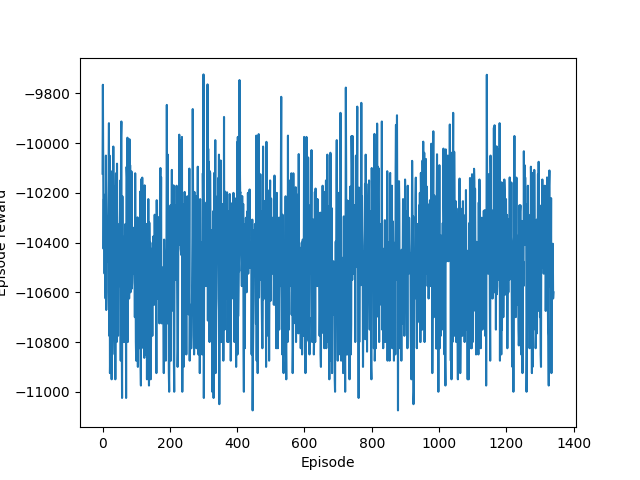
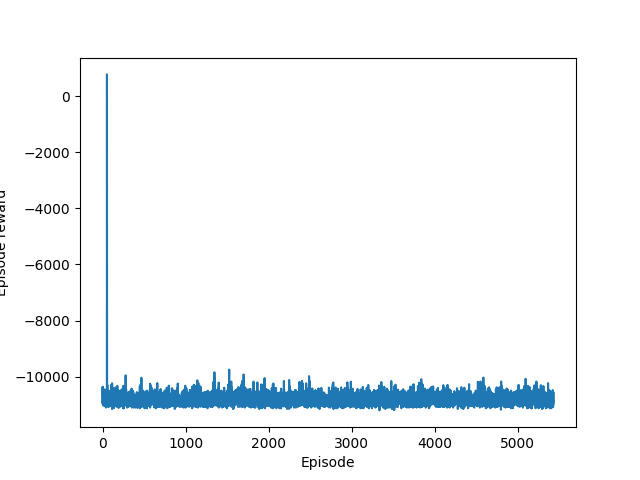
Added Training Code for Trace Model

diff --git a/A2C.py b/A2C.py
@@ -72,7 +72,7 @@ class PolicyEstimator_RNN(nn.Module):
 
         return action_probs 
 
-    def predict(self, states, local_map, sess=None):
+    def predict(self, states, local_map):
         self.eval()
         with torch.no_grad():
             state = torch.FloatTensor(states).to(self.device)
@@ -160,7 +160,7 @@ class ValueEstimator_RNN(nn.Module):
         value_estimate = torch.squeeze(output)
         return value_estimate 
 
-    def predict(self, states, target, local_maps):
+    def predict(self, states, local_maps):
         self.eval()
         with torch.no_grad():
             state = torch.FloatTensor(state).to(self.device)
@@ -206,9 +206,69 @@ class A2CAgent:
     def memorize(self, state, local_map, action, reward, next_state, next_local_map, done):
         self.memory.append((state, local_map, action, reward, next_state, next_local_map, done))
 
-    def update(self, states, local_maps, pol_target, val_target, action):
-        self.policy.update(states, pol_target, action, local_maps)
-        self.value.update(states, val_target, local_maps)
+# GPT Generated. Comment of Shame. --Andrew Chang, April 5th, 2026
+    def replay(self, batch_size, gamma=0.99):
+        minibatch = list(self.memory)[-batch_size:]
+
+        states = []
+        local_maps = []
+        actions = []
+        rewards = []
+        next_states = []
+        next_local_maps = []
+        dones = []
+
+        for state, local_map, action, reward, next_state, next_local_map, done in minibatch:
+            states.append(state)
+            local_maps.append(local_map)
+            actions.append(action)
+            rewards.append(reward)
+            next_states.append(next_state)
+            next_local_maps.append(next_local_map)
+            dones.append(done)
+
+        # Convert to tensors
+        states = torch.FloatTensor(states)
+        local_maps = torch.FloatTensor(local_maps)
+        next_states = torch.FloatTensor(next_states)
+        next_local_maps = torch.FloatTensor(next_local_maps)
+        actions = torch.LongTensor(actions)
+        rewards = torch.FloatTensor(rewards)
+        dones = torch.FloatTensor(dones)
+
+        # ---- Critic values ----
+        values = self.value.forward(states, local_maps)
+        next_values = self.value.forward(next_states, next_local_maps).detach()
+
+        # ---- Compute targets ----
+        targets = rewards + gamma * next_values * (1 - dones)
+
+        # ---- Advantage ----
+        advantages = targets - values
+
+        # ---- Actor loss ----
+        action_probs = self.policy.forward(states, local_maps)
+        dist = torch.distributions.Categorical(action_probs)
+        log_probs = dist.log_prob(actions)
+
+        actor_loss = -(log_probs * advantages.detach()).mean()
+
+        # ---- Critic loss ----
+        critic_loss = F.mse_loss(values, targets.detach())
+
+        # ---- Total loss ----
+        loss = actor_loss + critic_loss
+
+        # ---- Backprop ----
+        self.policy.optimizer.zero_grad()
+        self.value.optimizer.zero_grad()
+
+        loss.backward()
+
+        self.policy.optimizer.step()
+        self.value.optimizer.step()
+
+        return loss.item()
 
     def load(self, policy_name, value_name):
         self.policy = torch.load(policy_name)

diff --git a/Training/full_training.py b/Training/full_training.py
@@ -114,17 +114,13 @@ def train_full_model(target_cost=False, search_weights=None, trace_weights=None,
                           trace.row_position, trace.col_position, steps))
 
             search_episode_num += 1
-            t += steps
-            next_target = target.select_next_target(trace.row_position, trace.col_position)
-            searching_agent.replay(5 if len(searching_agent.memory)>5 else len(searching_agent.memory))
-            search.update_target(next_target)
-            search.transfer_map(trace.map)
-            '''
-            print("Next target:", next_target)
-            '''
 
-            # Not doing Tracing for now
-            '''
+            # Train Searching Agent
+            searching_agent.replay(5 if len(searching_agent.memory)>5 else len(searching_agent.memory))
+
+            if search_episode_num % 100 == 0:
+                searching_agent.save('model.pt', 'targetModel.pt')
+
             # Update all environments with the new information after the search episode
             trace.update_visited(search.visited)
             trace.transfer_map(search.map)
@@ -158,15 +154,13 @@ def train_full_model(target_cost=False, search_weights=None, trace_weights=None,
                   .format((trace_episode_num+1 % (e+1)), e+1, reward, trace_covered[trace_episode_num],
                           search.row_position, search.col_position, steps))
 
+            # Train Tracing Agent
+            searching_agent.replay(5 if len(searching_agent.memory)>5 else len(searching_agent.memory))
+
             trace_episode_num += 1
             t += steps
 
-            # Train the model
-            searching_agent.replay(16 if len(searching_agent.memory)>16 else )
-
             # Update all environments with the new information after the trace episode
-            search.update_visited(trace.visited)
-            search.transfer_map(trace.map)
             target.update_visited(trace.visited)
             target.transfer_map(trace.map)
 
@@ -176,11 +170,9 @@ def train_full_model(target_cost=False, search_weights=None, trace_weights=None,
 
 
             # Update all environments with the new target
-            search.update_target(next_target)
             trace.update_target(next_target)
             target.update_target(next_target)
             print("Next target:", next_target)
-            '''
             
 
         total_steps.append(t)
@@ -194,4 +186,6 @@ def train_full_model(target_cost=False, search_weights=None, trace_weights=None,
         plt.ylabel('Total Steps Taken')
         plt.savefig('Training_results/steps.png')
         plt.clf()
+
+
 

diff --git a/ddrqn.py b/ddrqn.py
@@ -156,7 +156,7 @@ class DDRQNAgent:
     def replay(self, batch_size):
         minibatch = random.sample(self.memory, batch_size)
         if self.isTarget:
-            print('Agent is in Target Mode!')
+            # print('Agent is in Target Mode!')
             for state, local_map, action, reward, next_state, next_local_map, done in minibatch:
                 target = self.model.predict(state)
                 target_next = self.model.predict(next_state)
@@ -173,7 +173,7 @@ class DDRQNAgent:
 
 
         else:
-            print('Agent is not in Target Mode!')
+            # print('Agent is not in Target Mode!')
             for state, local_map, action, reward, next_state, next_local_map, done in minibatch:
                 target = self.model.predict(state, local_map)
                 # print('target:', target)
@@ -190,6 +190,7 @@ class DDRQNAgent:
                 self.model.fit(state, target, local_map)
             if self.epsilon > self.epsilon_min:
                 self.epsilon *= self.epsilon_decay
+        self.update_target_model()
 
     def act(self, state, local_maps=None):
         if np.random.rand() <= self.epsilon:
@@ -211,9 +212,9 @@ class DDRQNAgent:
             os.makedirs(self.temp_weight_dir)
 
     def load(self, name, name2):
-        self.model.load_weights(self.load_weight_dir + name, self.sess)
-        self.target_model.load_weights(self.load_weight_dir + name2, self.sess)
+        self.model.load(self.load_weight_dir + name)
+        self.target_model.load(self.load_weight_dir + name2)
 
     def save(self, name, name2, episode=None):
-        self.model.save_weights(self.save_weight_dir + name, self.sess, episode)
-        self.target_model.save_weights(self.save_weight_dir + name2, self.sess, episode)
+        self.model.save_weights(self.save_weight_dir + name)
+        self.target_model.save_weights(self.save_weight_dir + name2)

diff --git a/Environment/search_env.py b/Environment/search_env.py
@@ -45,7 +45,7 @@ class Search(Env):
         self.__class__.row_position = row
         self.__class__.col_position = col
         self.current_target = self.targets[self.__class__.current_target_index]
-        print(self.current_target)
+        # print(self.current_target)
 
         # Get new local map
         self.next_local_map()
@@ -235,7 +235,7 @@ class Search(Env):
 
         if row and col:
             target = True
-            print(self.current_target, 'reached')
+            #print(self.current_target, 'reached')
 
         return target
 
@@ -262,6 +262,7 @@ class Search(Env):
         """
         if self.__class__.row_position == self.local_target[0] and self.__class__.col_position == self.local_target[1]:
             target = True
+        # print((self.__class__.row_position, self.__class__.col_position), '   local_target_reached: ', target)
 
         return target
 

diff --git a/Training/training_helper.py b/Training/training_helper.py
@@ -107,6 +107,9 @@ def trace_episode(trace, tracing_agent, row_position, col_position, target=None)
             state=state, local_map=local_map, action=action, reward=reward, next_state=next_state,
             next_local_map=next_local_map, done=done))
 
+        if time >= 5:
+            next_states, next_local_maps = get_last_t_states(5, episode, trace.vision_size + 4)
+
         state = next_state
         local_map = next_local_map
 
@@ -124,7 +127,8 @@ def trace_episode(trace, tracing_agent, row_position, col_position, target=None)
 
         t = time
 
-    #print("End Trace: {}".format(np.sum(trace.visited)))
+        if time >= 5:
+            tracing_agent.memorize(states, local_maps, action, reward, next_states, next_local_maps, done)
 
     return total_reward, t, trace.row_position, trace.col_position
 
